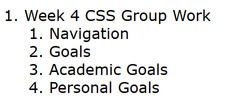
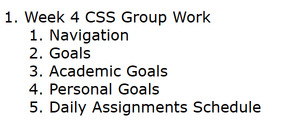
color palette, css styling and box model

Changed region(s): [[0.0901, 0.2162, 0.9313, 0.8919], [0.0, 0.0811, 0.9013, 0.2162]]

diff --git a/w4/goals.html b/w4/goals.html
@@ -16,9 +16,9 @@
             <li><a href="index.html">Index</a></li>
             <li><a href="learn-more.html">Learn-More</a></li>
             <li><a href="contact.html">Contact Us</a></li>
-            <p><img src="images/goals-outliner.jpg" alt="goals-outliner" width="233" height="111"></p>
-        </ul>
+        </ul>  
     </nav>
+    <p><img src="images/goals-outliner.jpg" alt="goals-outliner" width="286" height="131"></p>
     <hr>
     <main>
         <h2>Goals</h2>
@@ -30,8 +30,8 @@
         <p>My academic goals consist of learning as much as I can with Web Development, become a Web Developer, create websites for others as a freelancer, and some for myself that I find enjoyable to be on. I want the certificates to back it all up to so that means getting a degree in computer science, all while gaining experience at the same time so I can build a good enough portfolio that people will want to go with me.</p>
         <h2>Personal Goals</h2>
         Some personal Goals include wanting to create a new social platform and I aspire to help my family out as much as I am able to financially, I want to buy enough land for for us to live on, and I most definitely would like to start my own family one of these days, I want at least 3 kids haha. Another personal goal is to make passive income using youtube. 
+        <h2>Daily Assignments Schedule</h2>
         <table>
-            <h2>Daily Assignments Schedule</h2>
             <caption>Daily Assignments Schedule</caption>
             <thead>
                 <tr>
@@ -73,6 +73,10 @@
                     <td>Academic Goals</td>
                     <td>Finish any unfinished Assignments</td>
                 </tr>
+            </tbody>
+        </table>
+        <table>
+            <caption>Weekend Assignments Schedule</caption>
                 <thead>
                     <tr>
                         <th>Day</th>

diff --git a/w4/colors.html b/w4/colors.html
@@ -1,0 +1,41 @@
+<!DOCTYPE html>
+<html lang="en">
+<head>
+    <meta charset="UTF-8">
+    <meta name="viewport" content="width=device-width, initial-scale=1.0">
+    <title>Color Palette</title>
+    <link rel="stylesheet" href="main.css">
+    <link rel="icon" href="images/cat-ninja-favicon.png" type="image/x-icon">
+</head>
+<body class="colors-page">
+    <header>
+        <a href="index.html">Back</a>
+    </header>
+    <main>
+        <h1>My Color Palette</h1>
+        <div class="color-palette">
+            <div class="color-item">
+                <div class="color-box color-box1" style="background-color: rgb(34, 34, 59);"></div>
+                <div class="color-description">Space Cadet</div>
+            </div>
+            <div class="color-item">
+                <div class="color-box color-box2" style="background-color: rgb(74, 78, 105);"></div>
+                <div class="color-description">Ultra Violet</div>
+            </div>
+            <div class="color-item">
+                <div class="color-box color-box3" style="background-color: rgb(154, 140, 152);"></div>
+                <div class="color-description">Rose Quartz</div>
+            </div>
+            <div class="color-item">
+                <div class="color-box color-box4" style="background-color: rgb(242, 233, 228);"></div>
+                <div class="color-description">Isabelline</div>
+            </div>
+        </div>
+        
+    </main>
+    <hr>
+    <footer>
+        &copy; 2023 Kevin Astley | <a href="https://github.com/CIT85" target=_blank>GitHub</a>
+    </footer>
+</body>
+</html>

diff --git a/w4/main.css b/w4/main.css
@@ -3,7 +3,7 @@ html {
 }
 
 body {
-    background-color: darkslategray;
+    background-color: rgb(74, 78, 105);
     color: whitesmoke;
 }
 
@@ -16,13 +16,14 @@ a:visited {
 }
 
 a:hover a:active {
-    color: #eee;
+    color: rgb(154, 140, 152);
 }
 
 table {
     width: 100%;
     border-collapse: collapse;
     margin: 20px 0;
+    color: rgb(242, 233, 228)
 }
 
 caption {
@@ -35,7 +36,7 @@ th, td {
 }
 
 th {
-    background-color: #333;
+    background-color: rgb(34, 34, 59);
     color: white;
 }
 
@@ -51,7 +52,7 @@ thead tr {
 }
 
 form {
-    max-width: 500;
+    max-width: 2000px;
     margin: 1%;
     padding: 50px;
     background-color: #f0f0f0;
@@ -97,4 +98,49 @@ input[type="submit"] {
 input[type="file"] {
     width: 100%;
     margin-top: 5px;
+}
+
+.colors-page {
+    background-color: black;
+}
+
+.color-box1,
+.color-box2,
+.color-box3, 
+.color-box4 {
+    width: 200px;
+    height: 200px;
+    display: inline-block;
+    margin-right: 10px;
+    border-radius: 10px;
+}
+
+.color-box1 {
+    background-color: rgb(34, 34, 59);
+}
+
+.color-box2 {
+    background-color: rgb(74, 78, 105);
+}
+
+.color-box3 {
+    background-color: rgb(154, 140, 152);
+}
+
+.color-box4 {
+    background-color: rgb(242, 233, 228);
+}
+
+.color-palette {
+    display: flex;
+    justify-content: center;
+    margin-top: 30px;
+}
+
+.color-description {
+    text-align: center;
+}
+
+.box-model {
+    display: inline-block;
 }

diff --git a/w4/index.html b/w4/index.html
@@ -13,15 +13,17 @@
 
 <body>
     <h1>Week 4 CSS Group Work</h1>
+    <h2>Navigation</h2>
     <nav>
-        <h2>Navigation</h2>
+ 
         <ul>
             <li><a href="goals.html">Goals</a></li>
             <li><a href="learn-more.html">Learn-More</a></li>
+            <li><a href="colors.html">Color Palette</a></li>
             <li><a href="contact.html">Contact Us</a></li>
-            <p><img src="images/index-outliner.jpg" alt="index-outliner" width="340" height="103"></p>
         </ul>
     </nav>
+    <p><img src="images/index-outliner.jpg" alt="index-outliner" width="329" height="106"></p>
     <hr>
     <header>
         <h2>Why is Learning HTML a Good Idea?</h2>
@@ -31,8 +33,8 @@
         <p>I think learning HTML is a good idea because if you want to create any type of website you're going to need
             to understand the basics of what it takes to create one, to me it is basically the backbone.</p>
     </header>
+    <h2>Book Recommendations</h2>
     <table>
-        <h2>Book Recommendations</h2>
         <caption>Recommended Books for Learning HTML</caption>
         <thead>
             <tr>
@@ -63,7 +65,7 @@
             </tr>
         </tbody>
     </table>
-    
+    <p class="box-model"><img src="images/box-model.png" alt="box-model"></p>
     <hr>
     <article>
         <h2>Websites I like to Visit.</h2>

diff --git a/w4/contact.html b/w4/contact.html
@@ -5,6 +5,8 @@
     <meta name="viewport" content="width=device-width, initial-scale=1.0">
     <link rel="stylesheet" href="main.css">
     <title>Contact</title>
+    <link rel="stylesheet" href="main.css">
+    <link rel="icon" href="images/cat-ninja-favicon.png" type="image/x-icon">
 </head>
 <body>
     <h1>Week 4 CSS Group Work</h1>
@@ -15,6 +17,7 @@
             <li><a href="goals.html">Goals</a></li>
             <li><a href="learn-more.html">Learn-More</a></li>
         </ul>
+        <p><img src="images/contact-outliner.jpg" alt="contact-outliner" width="219" height="67"></p>
     </nav>
 
     <form action="https://httpbin.org/post" method="post">

diff --git a/w4/learn-more.html b/w4/learn-more.html
@@ -16,8 +16,8 @@
             <li><a href="index.html">Index</a></li>
             <li><a href="goals.html">Goals</a></li>
             <li><a href="contact.html">Contact Us</a></li>
-            <p><img src="images/learn-more-outliner.jpg" alt="learn-more-outliner" width="328" height="76"></p>
         </ul>
+        <p><img src="images/learn-more-outliner.jpg" alt="learn-more-outliner" width="328" height="76"></p>
     </nav>
     <hr>
     <article>
